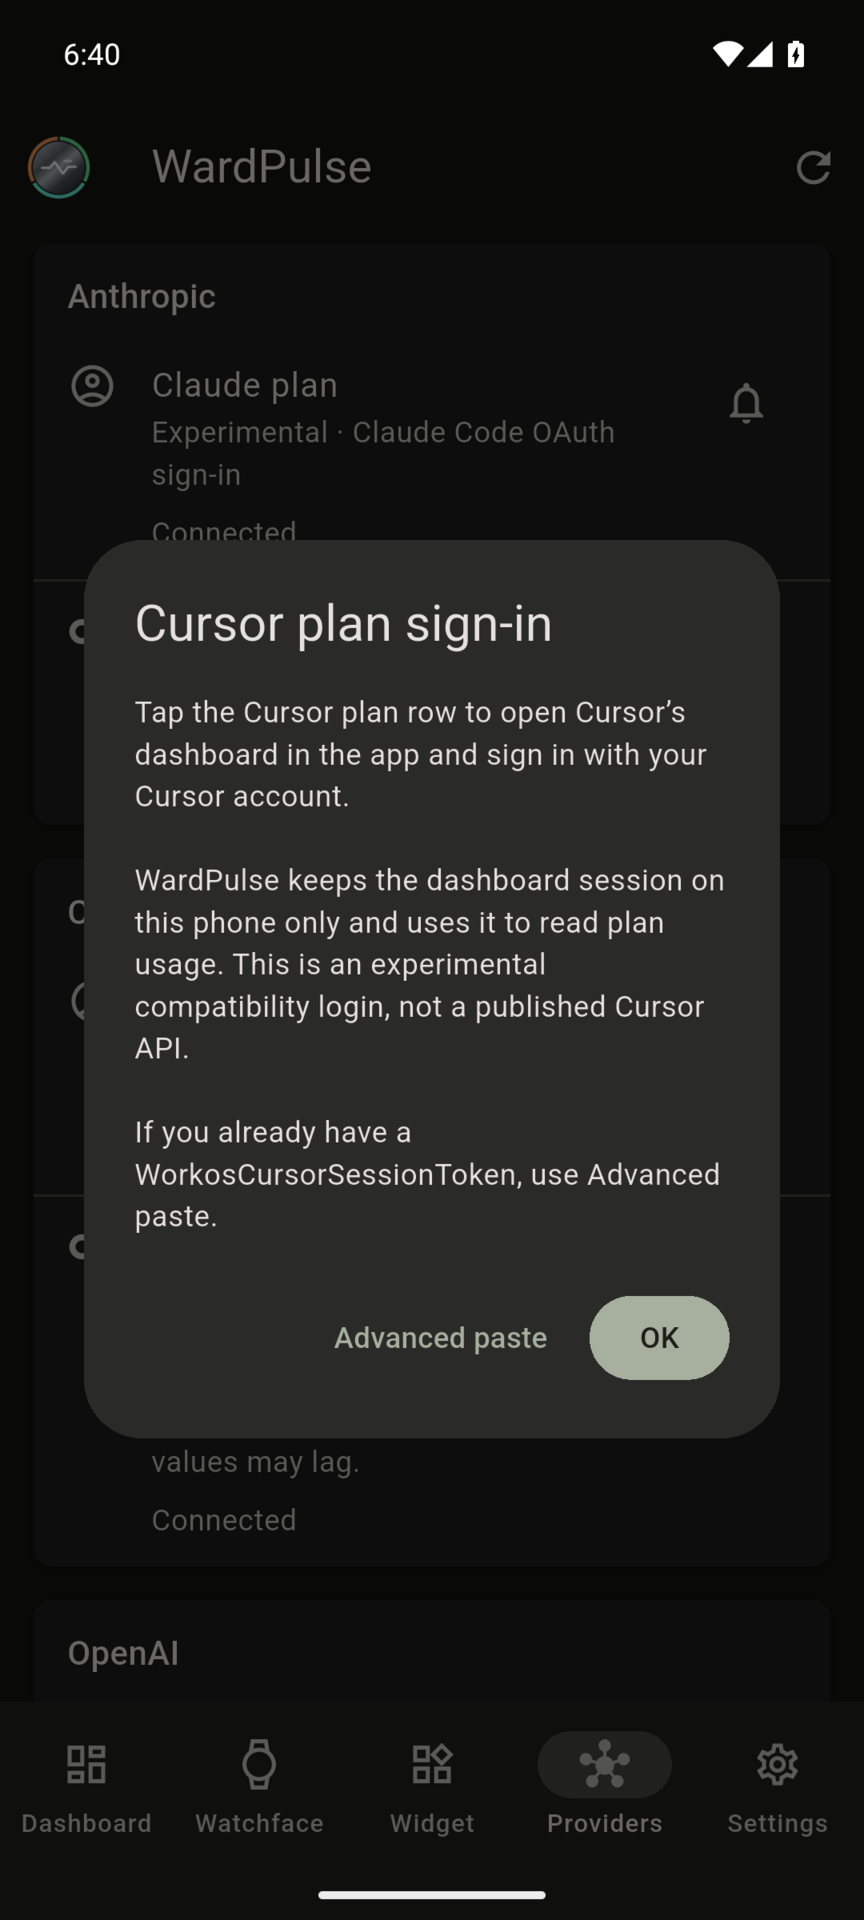
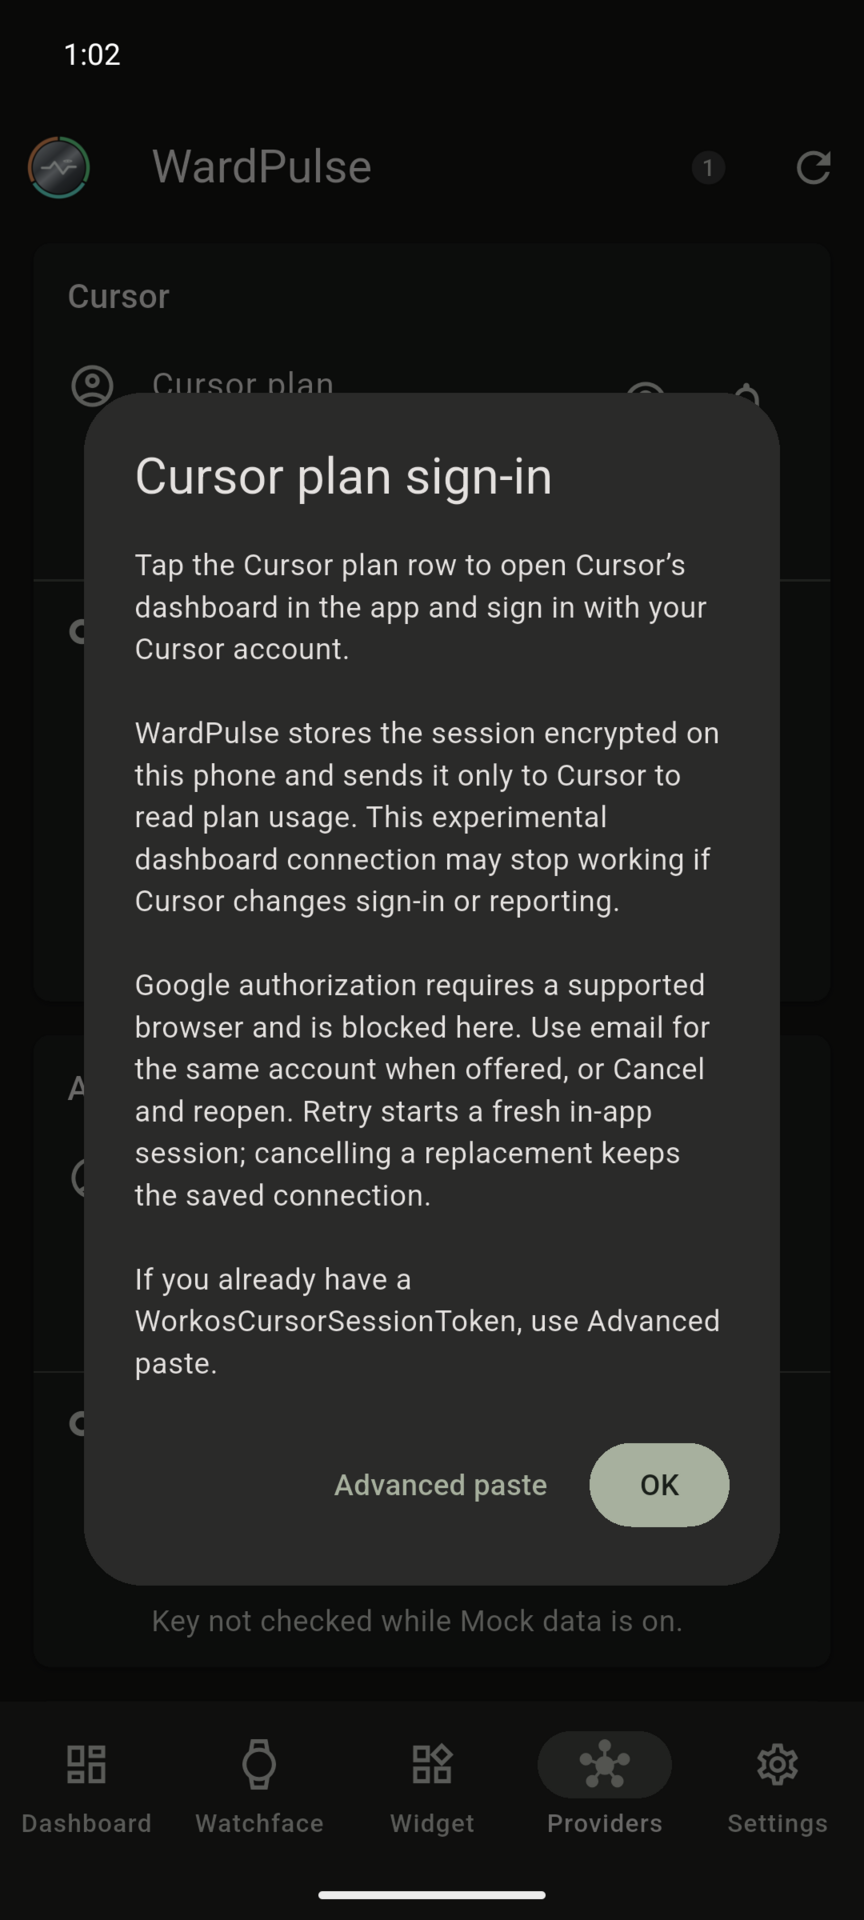
docs(cursor): refresh recovery captures and verification notes

diff --git a/docs/assets/README.md b/docs/assets/README.md
@@ -33,6 +33,11 @@ The Providers, Budget limits and Alert thresholds theme pairs form a separate si
 phone task group captured on 2026-10-27. Their unsaved examples share unchanged saved
 settings and recorded live derived state; this refresh does not update the other capture groups.
 
+The Cursor Help and Paste token theme pairs form a separate four-frame task group
+captured on 2026-10-28 from one cached Mock reference. Its gray neutral Unknown count
+marks unavailable Cursor reporting periods; it contains no warning, error or Stale state.
+These demonstration frames do not establish live reporting or refresh the other groups.
+
 The Used in column records the source placements for each image. Last verified records
 actual-frame review on the stated date; the dated capture sections describe its scope.
 Image review and publication review are
@@ -47,10 +52,10 @@ image or its placement changes.
 | [phone-dashboard-dark.png](phone-dashboard-dark.png) | Claude unsupported-response warning and previous data. | Dark | 2026-10-14 | 2026-10-18 | 2026-10-18 | 864×1920 | WardPulse phone | Dark Troubleshooting guide, warning / previous-data example only |
 | [phone-providers-light.png](phone-providers-light.png) | Shared-state Providers: four visible Connected rows and independent actions, without a warning badge. | Light | 2026-10-14 | 2026-10-27 | 2026-10-27 | 864×1920 | WardPulse phone | Providers overview; Anthropic/Cursor connection examples; Getting started; Dashboard actions |
 | [phone-providers-dark.png](phone-providers-dark.png) | Shared-state Providers: four visible Connected rows and independent actions, without a warning badge. | Dark | 2026-10-14 | 2026-10-27 | 2026-10-27 | 864×1920 | WardPulse phone | Providers overview; Anthropic/Cursor connection examples; Getting started; Dashboard actions |
-| [phone-cursor-sign-in-help-light.png](phone-cursor-sign-in-help-light.png) | Cursor plan sign-in Help, Advanced paste and healthy Providers background. | Light | 2026-10-14 | 2026-10-20 | 2026-10-20 | 864×1920 | WardPulse phone | Light Cursor guide, Advanced paste |
-| [phone-cursor-sign-in-help-dark.png](phone-cursor-sign-in-help-dark.png) | Cursor plan sign-in Help, Advanced paste and healthy Providers background. | Dark | 2026-10-14 | 2026-10-20 | 2026-10-20 | 864×1920 | WardPulse phone | Dark Cursor guide, Advanced paste |
-| [phone-cursor-paste-token-light.png](phone-cursor-paste-token-light.png) | Saved-token editor with empty Value and Remove/leave-blank-to-keep controls. | Light | 2026-10-14 | 2026-10-20 | 2026-10-20 | 864×1920 | WardPulse phone | Light Cursor guide, Save the token |
-| [phone-cursor-paste-token-dark.png](phone-cursor-paste-token-dark.png) | Saved-token editor with empty Value and Remove/leave-blank-to-keep controls. | Dark | 2026-10-14 | 2026-10-20 | 2026-10-20 | 864×1920 | WardPulse phone | Dark Cursor guide, Save the token |
+| [phone-cursor-sign-in-help-light.png](phone-cursor-sign-in-help-light.png) | Cursor Help with Google/email recovery and Advanced paste; neutral Mock setup background. | Light | 2026-10-14 | 2026-10-28 | 2026-10-28 | 864×1920 | WardPulse phone | Light Cursor guide, Advanced paste |
+| [phone-cursor-sign-in-help-dark.png](phone-cursor-sign-in-help-dark.png) | Cursor Help with Google/email recovery and Advanced paste; neutral Mock setup background. | Dark | 2026-10-14 | 2026-10-28 | 2026-10-28 | 864×1920 | WardPulse phone | Dark Cursor guide, Advanced paste |
+| [phone-cursor-paste-token-light.png](phone-cursor-paste-token-light.png) | Saved-token editor with empty Value and Remove/leave-blank-to-keep controls; the same Mock state. | Light | 2026-10-14 | 2026-10-28 | 2026-10-28 | 864×1920 | WardPulse phone | Light Cursor guide, Save the token |
+| [phone-cursor-paste-token-dark.png](phone-cursor-paste-token-dark.png) | Saved-token editor with empty Value and Remove/leave-blank-to-keep controls; the same Mock state. | Dark | 2026-10-14 | 2026-10-28 | 2026-10-28 | 864×1920 | WardPulse phone | Dark Cursor guide, Save the token |
 | [phone-reporting-key-light.png](phone-reporting-key-light.png) | Saved Anthropic reporting-key editor with empty Value/Label and keep/Remove controls. | Light | 2026-10-14 | 2026-10-20 | 2026-10-20 | 864×1920 | WardPulse phone | Light Anthropic guide, Connect the key (Organization reporting) |
 | [phone-reporting-key-dark.png](phone-reporting-key-dark.png) | Saved Anthropic reporting-key editor with empty Value/Label and keep/Remove controls. | Dark | 2026-10-14 | 2026-10-20 | 2026-10-20 | 864×1920 | WardPulse phone | Dark Anthropic guide, Connect the key (Organization reporting) |
 | [phone-openai-reporting-key-light.png](phone-openai-reporting-key-light.png) | Saved OpenAI Platform reporting editor with empty Value/Label and fixed sk-admin-… hint. | Light | 2026-10-18 | 2026-10-20 | 2026-10-20 | 864×1920 | WardPulse phone | Light OpenAI guide, Connect the key (Platform reporting) |
@@ -76,6 +81,55 @@ image or its placement changes.
 | [wear-plan-windows.png](wear-plan-windows.png) | Shared-state first window: Claude 5-hour session, 21% left, back at 17:20; the next row is partly visible below. | Fixed dark | 2026-10-14 | 2026-10-27 | 2026-10-27 | 500×500 | WardPulse Wear | Watch guide in both themes |
 | [wear-watch-face.png](wear-watch-face.png) | Enlarged-clock face: Claude 21% inner band, Codex 23% / 59.5K credits middle, Cursor 100%/64% outer; default day, temperature and UV cells filled. | Fixed dark | 2026-10-14 | 2026-10-27 | 2026-10-27 | 500×500 | WardPulse watch face | Both landing/README themes and Watch guide |
 | [wear-watch-face-utility.png](wear-watch-face-utility.png) | Historical manual-selection guidance after Don’t allow; Source-backed UI reuse. | Fixed dark | 2026-10-16 | 2026-10-16 | 2026-10-18 | 500×500 | WardPulse Wear | Watch guide in both themes |
+
+## Cursor recovery capture refresh, 2026-10-28
+
+Four existing phone task PNGs were captured on the canonical phone AVD in one session,
+**00:01:36.150553–00:02:53.084441 UTC** (**01:01–01:02 Europe/Paris**), from the minimum
+capture-start and maximum capture-end observations. Source commit was
+`5eb874f5195efc7ab47210fee680d79f67e8b294`; the installed debug APK, built with
+`WARD_PULSE_MOCK_SEED=51`, had SHA-256
[1 lines of base64/hex data omitted]
+
+These are actual native UI captures with explicit **Mock data** enabled, not anonymous
+live-reporting captures. The cached reference stayed at Cursor Models **60.5% left** and
+Other Models **74.8% left** before and after both themes. Five demo accounts were OK;
+Cursor platform was neutral Unknown because its reporting periods were unavailable.
+The visible gray count **1** is that neutral state, not a warning, error or Stale mark.
+The background's **Key not checked while Mock data is on** describes the reporting row;
+the existing saved-connection controls do not establish a fresh API verification.
+
+Both Help frames show the current Google/email recovery, Cancel/reopen, Retry and saved
+replacement guidance with Advanced paste and OK visible. Both saved-token editors show
+the complete instructions, an empty Value field and Remove/Cancel/Save; no saved value or
+identifying account data is pictured, and no credential was entered, saved or removed.
+All four originals and exports were reviewed. Each theme was captured natively at font
+scale **1.0**. The only export operation was proportional ImageMagick resizing from
+1080×2400 to 864×1920; no cropping, recolouring or UI retouching was used.
+
[1 lines of base64/hex data omitted]
+was restored with data preserved and its installed hash verified. Mock data returned to Off;
+night mode returned to no, font scale to 1.0, refresh interval to 15 minutes, status-bar
+disable flags to 0/0, Wi-Fi/mobile data to on and airplane mode to off. An ordinary normal
+refresh settled, and the Dashboard and home widget were reviewed with normal data replacing
+the seeded values; the app returned to Dashboard. The saved connection remained present;
+its secret value was not read or compared. No notifications were dismissed or physical
+devices operated. Browser placement and served-image checks passed on 2026-10-28:
+all 15 current public routes were checked in both themes, including actual current-theme
+image loading, dimensions and clean original-image links. The Advanced paste and Save
+the token anchors were reviewed in both themes at 390×844 in Chrome, with all four
+mobile frames personally inspected and no horizontal overflow. All four served PNG
+hashes matched the canonical exports.
+Only these four filenames were refreshed;
+their Date added remains 2026-10-14, earlier capture records stay historical, and this
+session does not certify live login, provider attribution, hardware or release acceptance.
+
+| File | Original SHA-256 | Export SHA-256 |
+| --- | --- | --- |
[4 lines of base64/hex data omitted]
 
 ## Provider task capture refresh, 2026-10-27
 

diff --git a/apps/phone_flutter/README.md b/apps/phone_flutter/README.md
@@ -31,6 +31,27 @@ Build the native libraries and run the app:
 just run-phone
 ```
 
+## Reproducible Debug Mock Data
+
+For repeatable capture data, build from `apps/phone_flutter/` with an optional starting seed:
+
+```sh
+flutter build apk --debug --dart-define=WARD_PULSE_MOCK_SEED=51
+```
+
+The define does not enable Mock data; turn it on explicitly in Settings. Release builds
+do not select the mock repository; only the debug startup branch consumes the define.
+The seed accepts ASCII decimal digits from **0** through **9223372036854775807**;
+leading zeroes are valid. Signs, whitespace, decimals, exponents, hexadecimal values
+and out-of-range values are invalid. An absent or invalid value retains the existing
+time-based seed selection.
+
+A loaded scenario stays cached across automatic sync. Invalidating a loaded scenario
+advances the sequence once; repeated invalidation before another load does not advance
+it again. Recreating the repository, including an app-process restart, starts from the
+configured seed again. The maximum seed wraps to zero. A reproducible seed is not a
+healthy-data preset: inspect the actual rendered statuses before choosing public captures.
+
 ## Persistent Connection Recovery
 
 `PhoneLiveBindings` wires all six live connections to `ConnectionSnapshotCache` and the
@@ -76,6 +97,13 @@ python3 tools/test-cursor-sign-in/run.py
 The harness compiles the production Java client against small Android API doubles. It checks
 subframe authorization interception, harmless-resource delegation, fixed diagnostics and
 main-document HTTP classification, and main-frame POST admission/rejection. It does not
-prove native rendering or live login. Run it
-as an additional focused HOST regression alongside the unchanged complete `just check-phone`;
-the real Android APK build and artifact-bound WebView acceptance remain required and Pending.
+prove native rendering or live login. Run it as an additional focused HOST regression
+alongside the unchanged complete `just check-phone`.
+
+Local verification on 2026-10-27–28 passed the complete phone check, affected Flutter
+regressions and this JVM harness. Normal and seeded debug APKs were built and installed
+with data preserved on the API36 phone emulator. Offline page recovery and Cancel were
+rechecked in the normal build; earlier native verification of the unchanged sign-in code
+also covers Retry, Cancel/back/reopen, Help and the empty Advanced paste editor. The saved connection
+remained available without reading its value. These checks do not establish a new live
+Google/email login, session capture, account entitlement or billing repair.

diff --git a/docs/DEVELOPMENT_PLAN.md b/docs/DEVELOPMENT_PLAN.md
@@ -1802,10 +1802,27 @@ Attempts and shared-cookie cleanup are fenced across Retry, failure, Cancel/back
 reopen; reconnect keeps the previous saved connection until valid replacement completion.
 Failed blank-page retirement can be retried without opening the shared jar early.
 Screen-event, real adapter, native callback and cookie boundary test source covers these contracts.
-**Pending:** the focused native guard JVM harness, runtime
-phone checks, native Android/WebView artifact verification and affected two-theme Help
-captures, plus unobserved Google/email migration, browser return, entitlement and live-provider
-acceptance. This does not claim Google login or billing repair. See
+
+Local verification on 2026-10-27–28 passed the unchanged complete phone check
+(559 Flutter tests), all eight affected Flutter files (140 tests) and the additional
+native callback JVM harness. Normal and seeded debug APKs were built and
+installed with data preserved on the API36 phone emulator. Native offline page recovery,
+Retry, Cancel/back/reopen, Help and the empty Advanced paste editor were observed;
+the current normal build repeated page recovery and Cancel after the bootstrap change.
+Saved-connection presence was retained without inspecting its value.
+
+The debug-only `WARD_PULSE_MOCK_SEED` build define now selects a reproducible initial
+Mock scenario, advances once when a loaded scenario is invalidated and restarts from
+the configured seed with a fresh repository. It leaves explicit Mock opt-in and release
+repository selection unchanged. Native seed 51 → Refresh 52 → cold restart 51 was
+verified. See [Reproducible Debug Mock Data](../apps/phone_flutter/README.md#reproducible-debug-mock-data)
+for invocation and accepted input. The [four refreshed Help/Paste captures](assets/README.md#cursor-recovery-capture-refresh-2026-10-28)
+share that cached Mock reference in both actual themes; its neutral unavailable Cursor
+periods are not presented as all-healthy or live reporting.
+
+**Pending:** unobserved current Google/email migration, external browser return, new live
+session capture, entitlement and live-provider acceptance. This does not claim Google
+login or billing repair. See
 [Cursor plan reporting](product/PROVIDER_NOTES.md#cursor-plan-reporting).
 
 Verified 2026-10-20: the Anthropic current-day and Cursor normalization corrections passed

diff --git a/docs/product/PROVIDER_NOTES.md b/docs/product/PROVIDER_NOTES.md
@@ -480,9 +480,17 @@ only once after verified cleanup. A failed blank-page request is retryable: the 
 retains the old browser until retirement succeeds, including on Retry or Cancel/reopen.
 A failed retirement never grants a newer browser access to the shared jar.
 
-Native WebView recovery, current Google/email migration, external browser return, account
-entitlement and live-provider acceptance remain **Pending**. Source/fake tests do not establish
-native or live login success, and these changes do not establish a billing repair.
+Local verification on 2026-10-27–28 passed the complete phone check, affected Flutter
+regressions and native callback JVM harness. Normal and seeded debug APKs were built
+and installed with data preserved on the API36 phone emulator. Native offline page recovery,
+Retry, Cancel/back/reopen, Help and the empty Advanced paste route were observed;
+the normal build repeated page recovery and Cancel after the debug-seed bootstrap change.
+Saved-connection presence remained intact; its secret value was not inspected.
+The four Help/Paste captures use a shared Mock reference, not live-provider acceptance.
+
+Current Google/email migration, external browser return, new live session capture,
+account entitlement and live-provider acceptance remain **Pending**. Source/fake tests
+do not establish live login success, and these changes do not establish a billing repair.
 Do not claim Admin-API hourly aggregation or a Team publication deadline on this experimental
 row. Never log auth query/fragment, identity/password, tokens, cookies/headers or raw bodies.
 
